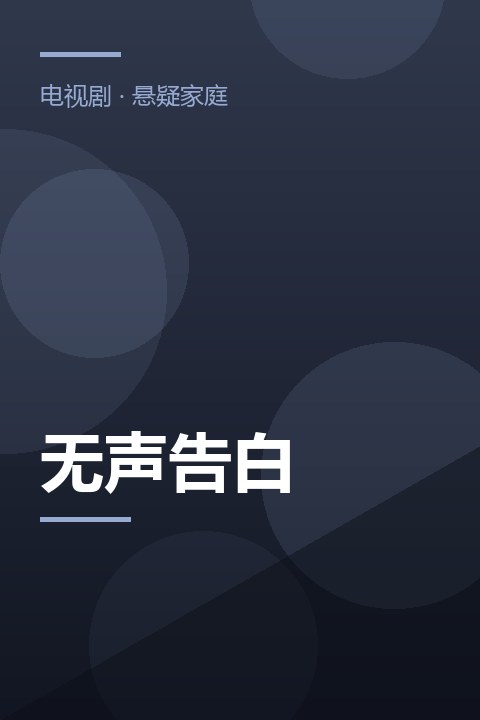
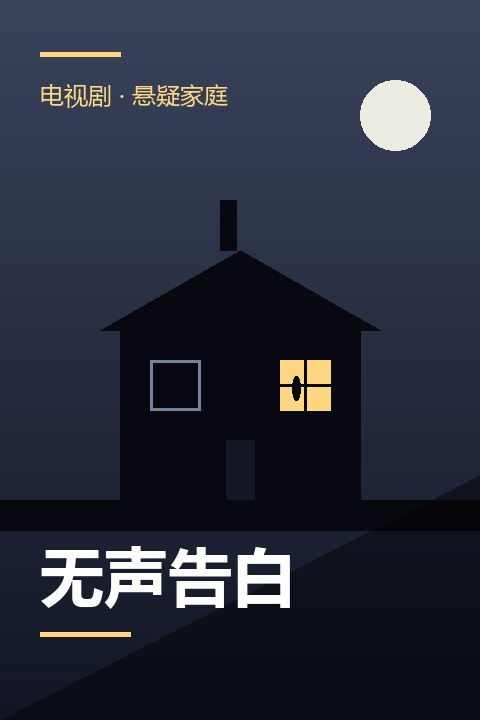
海报改为贴合影视主题的扁平插画：每部作品绘制专属场景（潜艇/宫殿/舞台/山峦/星空/猫町等）

Changed region(s): [[0.0, 0.275, 1.0, 0.8861], [0.0625, 0.0611, 0.5, 0.1528], [0.75, 0.0917, 0.9062, 0.2139]]

diff --git a/gen_posters.py b/gen_posters.py
@@ -1,11 +1,10 @@
 # -*- coding: utf-8 -*-
-"""本地生成 14 张 2:3 竖版海报（渐变 + 几何装饰 + 标题）"""
+"""按影视内容主题生成 14 张 2:3 竖版海报（扁平插画风：渐变底 + 主题剪影场景 + 标题）"""
 from PIL import Image, ImageDraw, ImageFont
-import os, math, random
+import os, random, math
 
-W, H = 480, 720  # 2:3
+W, H = 480, 720
 os.makedirs('posters', exist_ok=True)
-
 FONT = 'C:/Windows/Fonts/msyh.ttc'
 FONT_B = 'C:/Windows/Fonts/msyhbd.ttc'
 
@@ -21,12 +20,6 @@ def vgrad(c1, c2):
             px[x, y] = c
     return img
 
-def soft_circle(draw, cx, cy, r, color, alpha):
-    overlay = Image.new('RGBA', (W, H), (0, 0, 0, 0))
-    d = ImageDraw.Draw(overlay)
-    d.ellipse([cx - r, cy - r, cx + r, cy + r], fill=color + (alpha,))
-    return overlay
-
 def wrap(text, font, max_w, draw):
     lines, cur = [], ''
     for ch in text:
@@ -37,57 +30,305 @@ def wrap(text, font, max_w, draw):
     if cur: lines.append(cur)
     return lines
 
-# (文件名, 标题, 类型名, 主色A, 主色B, 强调色)
-ITEMS = [
-    ('01_chang_an', '长安霓裳录', '电视剧 · 古装悬疑', (122, 44, 58), (43, 24, 48), (232, 180, 120)),
-    ('02_shen_hai', '深海回响', '院线电影 · 科幻惊悚', (8, 32, 64), (2, 8, 24), (64, 180, 220)),
-    ('03_sheng_lang', '声浪 2026', '综艺 · 音乐竞演', (88, 40, 140), (30, 14, 60), (240, 120, 200)),
-    ('04_wu_shan', '雾山行', '动漫 · 国风热血', (60, 80, 96), (20, 28, 36), (220, 90, 70)),
-    ('05_ni_guang', '逆光行者', '院线电影 · 现实题材', (30, 50, 80), (10, 18, 32), (255, 170, 80)),
-    ('06_wu_sheng', '无声告白', '电视剧 · 悬疑家庭', (48, 56, 76), (18, 22, 34), (150, 170, 210)),
-    ('07_man_you', '慢游中国', '综艺 · 慢游人文', (120, 96, 64), (56, 42, 26), (255, 220, 150)),
-    ('08_xing_hai', '星海战记', '动漫 · 科幻星际', (24, 40, 96), (6, 10, 32), (120, 200, 255)),
-    ('09_xia_ri', '夏日晚风', '院线电影 · 青春爱情', (240, 150, 100), (200, 90, 110), (255, 240, 200)),
-    ('10_po_xiao', '破晓行动', '电视剧 · 刑侦涉案', (36, 64, 84), (12, 24, 34), (255, 140, 70)),
-    ('11_nao_li', '脑力竞技场', '综艺 · 科学竞技', (30, 80, 140), (10, 28, 60), (110, 230, 255)),
-    ('12_mao_ding', '猫町奇谭', '动漫 · 治愈奇幻', (250, 180, 140), (230, 130, 140), (255, 250, 235)),
-    ('13_shan_he', '山河笔记', '纪录片 · 自然人文', (70, 110, 90), (24, 48, 40), (230, 220, 160)),
-    ('14_si_lu', '丝路遗珍', '纪录片 · 考古历史', (180, 130, 70), (100, 62, 30), (255, 235, 190)),
-]
+def birds(d, pts, color):
+    for (x, y, s) in pts:
+        d.arc([x - s, y - s, x, y + s], 200, 340, fill=color, width=3)
+        d.arc([x, y - s, x + s, y + s], 200, 340, fill=color, width=3)
 
-for fname, title, genre, c1, c2, accent in ITEMS:
-    random.seed(fname)
-    img = vgrad(c1, c2).convert('RGBA')
+def stars(d, n, seed, ymax, color):
+    random.seed(seed)
+    for _ in range(n):
+        x, y = random.randint(0, W), random.randint(0, ymax)
+        r = random.choice([1, 1, 2])
+        d.ellipse([x - r, y - r, x + r, y + r], fill=color)
 
-    # 几何装饰：柔和圆斑 + 斜切色带
-    for _ in range(5):
-        cx, cy = random.randint(-60, W), random.randint(-60, H)
-        r = random.randint(60, 200)
-        img.alpha_composite(soft_circle(None, cx, cy, r, accent, random.randint(14, 40)))
-    band = Image.new('RGBA', (W, H), (0, 0, 0, 0))
-    bd = ImageDraw.Draw(band)
-    bd.polygon([(0, H), (W, int(H * 0.62)), (W, H)], fill=lerp(c2, (0, 0, 0), 0.35) + (120,))
-    img.alpha_composite(band)
-    # 顶部细装饰线
+def finish(img, title, genre, accent):
+    """统一的文字排版：顶部类型、下部标题"""
+    d = ImageDraw.Draw(img)
+    # 底部暗化条，保证标题可读
+    shade = Image.new('RGBA', (W, H), (0, 0, 0, 0))
+    ImageDraw.Draw(shade).polygon([(0, H), (W, int(H * 0.66)), (W, H)], fill=(0, 0, 0, 110))
+    img.alpha_composite(shade)
     d = ImageDraw.Draw(img)
     d.rectangle([40, 52, 120, 56], fill=accent + (220,))
-
-    # 类型小字
-    f_genre = ImageFont.truetype(FONT, 24)
-    d.text((40, 78), genre, font=f_genre, fill=accent + (235,))
-
-    # 标题（自动换行、纵向居中偏下）
+    d.text((40, 78), genre, font=ImageFont.truetype(FONT, 24), fill=accent + (235,))
     f_title = ImageFont.truetype(FONT_B, 64)
     lines = wrap(title, f_title, W - 80, d)
-    lh = 84
-    ty = int(H * 0.58)
+    ty = int(H * 0.74) - (len(lines) - 1) * 84
     for ln in lines:
         d.text((40, ty), ln, font=f_title, fill=(255, 255, 255, 245))
-        ty += lh
+        ty += 84
+    d.rectangle([40, ty + 16, 130, ty + 20], fill=accent + (200,))
+    return img
 
-    # 底部装饰短线
-    d.rectangle([40, ty + 16, 40 + 90, ty + 20], fill=accent + (200,))
+# ============ 各作品主题场景 ============
 
+def scene_chang_an(d, accent, dark):  # 唐宫：重檐宫殿剪影 + 圆月
+    d.ellipse([300, 90, 420, 210], fill=accent + (255,))           # 月
+    d.ellipse([296, 86, 424, 214], outline=(255, 240, 210, 90), width=4)
+    base = 470
+    d.rectangle([60, base, 420, base + 60], fill=dark)             # 主殿身
+    d.polygon([(40, base), (240, base - 90), (440, base)], fill=dark)   # 上檐
+    d.polygon([(90, base - 90), (240, base - 150), (390, base - 90)], fill=dark)  # 重檐
+    d.rectangle([236, base - 170, 244, base - 150], fill=dark)     # 脊
+    for wx in range(90, 400, 44):                                   # 窗棂
+        d.rectangle([wx, base + 16, wx + 22, base + 44], fill=accent + (170,))
+    d.rectangle([0, base + 60, W, H], fill=dark)
+
+def scene_shen_hai(d, accent, dark):  # 深海：潜艇剪影 + 气泡 + 光柱
+    beam = Image.new('RGBA', (W, H), (0, 0, 0, 0))
+    ImageDraw.Draw(beam).polygon([(120, 0), (200, 0), (320, 480), (180, 480)], fill=(120, 220, 255, 36))
+    return beam
+
+def draw_shen_hai(img, accent, dark):
+    img.alpha_composite(scene_shen_hai(None, accent, dark))
+    d = ImageDraw.Draw(img)
+    d.ellipse([120, 330, 360, 410], fill=dark)                      # 艇身
+    d.rectangle([200, 296, 260, 336], fill=dark)                    # 指挥塔
+    d.polygon([(352, 350), (396, 330), (396, 390), (352, 390)], fill=dark)  # 尾舵
+    for wx in range(150, 300, 36):
+        d.ellipse([wx, 358, wx + 16, 374], fill=accent + (200,))    # 舷窗
+    random.seed('bubble')
+    for _ in range(14):                                             # 气泡
+        x, y = random.randint(30, 450), random.randint(80, 320)
+        r = random.randint(3, 10)
+        d.ellipse([x - r, y - r, x + r, y + r], outline=accent + (150,), width=2)
+    for i in range(3):                                              # 声波纹
+        r = 60 + i * 46
+        d.arc([240 - r, 470 - r, 240 + r, 470 + r], 300, 240, fill=accent + (120 - i * 30,), width=3)
+    return img
+
+def scene_sheng_lang(img, accent, dark):  # 音乐舞台：射灯 + 麦克风 + 音浪
+    d = ImageDraw.Draw(img)
+    for sx in (90, 240, 390):                                       # 顶部射灯光束
+        beam = Image.new('RGBA', (W, H), (0, 0, 0, 0))
+        ImageDraw.Draw(beam).polygon([(sx - 14, 0), (sx + 14, 0), (sx + 90, 430), (sx - 90, 430)],
+                                     fill=accent + (30,))
+        img.alpha_composite(beam)
+    d = ImageDraw.Draw(img)
+    d.ellipse([196, 300, 284, 388], fill=dark)                      # 麦克风头
+    for i in range(3):
+        d.arc([196 - 8 + i * 4, 300 - 8 + i * 4, 284 + 8 - i * 4, 388 + 8 - i * 4], 0, 360, fill=accent + (140,), width=2)
+    d.polygon([(226, 388), (254, 388), (246, 470), (234, 470)], fill=dark)  # 手柄
+    d.rectangle([150, 470, 330, 482], fill=dark)                    # 台
+    random.seed('wave')
+    for i, x in enumerate(range(60, 440, 20)):                      # 音浪条
+        h = random.randint(14, 60)
+        d.rectangle([x, 560 - h, x + 8, 560 + h], fill=accent + (170,))
+    return img
+
+def scene_wu_shan(img, accent, dark):  # 雾山：层叠山峦 + 红日 + 雾带
+    d = ImageDraw.Draw(img)
+    d.ellipse([320, 120, 420, 220], fill=(230, 84, 60, 255))        # 红日
+    def ridge(pts, color):
+        d.polygon(pts + [(W, H), (0, H)], fill=color)
+    ridge([(0, 380), (120, 300), (240, 380), (360, 290), (W, 380)], lerp(dark, (255, 255, 255), 0.08) + (210,))
+    ridge([(0, 470), (160, 380), (300, 470), (420, 390), (W, 460)], dark + (235,))
+    for my in (350, 440):                                           # 雾带
+        fog = Image.new('RGBA', (W, H), (0, 0, 0, 0))
+        ImageDraw.Draw(fog).ellipse([-80, my, W + 80, my + 56], fill=(235, 235, 230, 70))
+        img.alpha_composite(fog)
+    d = ImageDraw.Draw(img)
+    birds(d, [(140, 180, 16), (190, 210, 12)], (60, 60, 60, 200))
+    return img
+
+def scene_ni_guang(img, accent, dark):  # 城市雨夜：楼群 + 雨丝 + 骑手
+    d = ImageDraw.Draw(img)
+    random.seed('city')
+    x = 0
+    while x < W:                                                    # 楼群剪影
+        bw, bh = random.randint(50, 90), random.randint(150, 300)
+        d.rectangle([x, 470 - bh, x + bw, 470], fill=dark)
+        for wy in range(470 - bh + 14, 460, 26):                    # 亮窗
+            for wx in range(x + 8, x + bw - 10, 18):
+                if random.random() < 0.35:
+                    d.rectangle([wx, wy, wx + 8, wy + 10], fill=accent + (150,))
+        x += bw + random.randint(6, 18)
+    for _ in range(70):                                             # 雨丝
+        rx, ry = random.randint(0, W), random.randint(0, 520)
+        d.line([(rx, ry), (rx - 6, ry + 18)], fill=(200, 220, 255, 90), width=1)
+    d.ellipse([70, 130, 150, 210], fill=accent + (200,))            # 逆光光晕
+    d.ellipse([200, 420, 250, 470], outline=(255, 200, 120, 255), width=6)   # 车轮
+    d.ellipse([300, 420, 350, 470], outline=(255, 200, 120, 255), width=6)
+    d.line([(250, 445), (290, 400), (325, 445)], fill=(255, 200, 120, 255), width=6)  # 车架
+    d.ellipse([276, 356, 304, 384], fill=(255, 200, 120, 255))      # 骑手头
+    d.line([(290, 384), (290, 404)], fill=(255, 200, 120, 255), width=8)
+    d.rectangle([0, 470, W, 500], fill=dark)                        # 路面
+    return img
+
+def scene_wu_sheng(img, accent, dark):  # 悬疑家庭：房子 + 一扇亮窗 + 月
+    d = ImageDraw.Draw(img)
+    d.ellipse([360, 80, 430, 150], fill=(235, 235, 225, 230))       # 月
+    d.rectangle([120, 330, 360, 500], fill=dark)                    # 房身
+    d.polygon([(100, 330), (240, 250), (380, 330)], fill=dark)      # 屋顶
+    d.rectangle([220, 200, 236, 250], fill=dark)                    # 烟囱
+    d.rectangle([150, 360, 200, 410], outline=(120, 130, 150, 255), width=3)   # 暗窗
+    d.rectangle([280, 360, 330, 410], fill=accent + (255,))         # 亮窗
+    d.line([(305, 360), (305, 410)], fill=dark + (255,), width=3)
+    d.line([(280, 385), (330, 385)], fill=dark + (255,), width=3)
+    d.ellipse([292, 376, 300, 400], fill=dark + (255,))             # 窗内人影
+    d.rectangle([226, 440, 254, 500], fill=(20, 24, 34, 255))       # 门
+    d.rectangle([0, 500, W, 530], fill=dark)
+    return img
+
+def scene_man_you(img, accent, dark):  # 古镇：屋檐 + 灯笼 + 石板路
+    d = ImageDraw.Draw(img)
+    d.polygon([(40, 300), (200, 220), (360, 300)], fill=dark)       # 左屋檐
+    d.rectangle([70, 300, 330, 470], fill=lerp(dark, (255, 255, 255), 0.06))
+    d.polygon([(180, 380), (360, 300), (W, 380)], fill=dark)        # 右屋檐
+    d.rectangle([220, 380, W, 470], fill=lerp(dark, (255, 255, 255), 0.03))
+    for lx in (150, 250, 400):                                      # 灯笼
+        d.line([(lx, 300), (lx, 316)], fill=(40, 30, 20, 255), width=2)
+        d.ellipse([lx - 14, 316, lx + 14, 348], fill=(235, 90, 60, 255))
+        d.rectangle([lx - 6, 348, lx + 6, 354], fill=(255, 210, 120, 255))
+    for i in range(4):                                              # 石板路
+        d.line([(60 + i * 10, 470 + i * 30), (W - 60 - i * 10, 470 + i * 30)], fill=(255, 240, 210, 90), width=2)
+    birds(d, [(120, 130, 14), (170, 160, 10)], (90, 70, 50, 200))
+    return img
+
+def scene_xing_hai(img, accent, dark):  # 星际：星空 + 行星 + 飞船
+    d = ImageDraw.Draw(img)
+    stars(d, 120, 'star', 560, (255, 255, 255, 220))
+    d.ellipse([60, 120, 200, 260], fill=(120, 90, 200, 255))        # 行星
+    d.arc([30, 160, 230, 220], 0, 360, fill=accent + (200,), width=5)  # 光环
+    d.ellipse([300, 320, 380, 400], fill=(70, 140, 200, 255))       # 小行星
+    ship = [(100, 470), (220, 440), (340, 470), (220, 486)]         # 飞船剪影
+    d.polygon(ship, fill=dark)
+    d.ellipse([196, 440, 244, 470], fill=dark)
+    d.ellipse([206, 446, 234, 464], fill=accent + (230,))
+    d.polygon([(340, 470), (392, 458), (392, 482)], fill=(255, 160, 60, 200))  # 尾焰
+    return img
+
+def scene_xia_ri(img, accent, dark):  # 夏日海边：落日 + 海平线 + 海鸥
+    d = ImageDraw.Draw(img)
+    d.ellipse([170, 210, 310, 350], fill=(255, 236, 180, 255))      # 落日
+    d.rectangle([0, 380, W, 560], fill=(235, 120, 100, 255))        # 海面
+    for i in range(6):                                              # 波光
+        y = 400 + i * 24
+        d.line([(60 + i * 14, y), (200 + i * 10, y)], fill=(255, 230, 190, 150), width=3)
+        d.line([(300 - i * 8, y + 8), (420 - i * 10, y + 8)], fill=(255, 230, 190, 120), width=3)
+    d.rectangle([0, 560, W, H], fill=(250, 214, 165, 255))          # 沙滩
+    d.polygon([(0, 560), (140, 560), (60, H), (0, H)], fill=(245, 200, 150, 255))
+    birds(d, [(320, 150, 16), (370, 120, 12), (260, 110, 10)], (120, 70, 60, 220))
+    d.ellipse([196, 500, 212, 534], fill=(90, 50, 60, 255))         # 两个人影
+    d.rectangle([192, 534, 216, 560], fill=(90, 50, 60, 255))
+    d.ellipse([228, 506, 242, 534], fill=(90, 50, 60, 255))
+    d.rectangle([224, 534, 246, 560], fill=(90, 50, 60, 255))
+    return img
+
+def scene_po_xiao(img, accent, dark):  # 破晓边境：岗亭 + 铁丝网 + 晨光
+    d = ImageDraw.Draw(img)
+    for gy in range(120, 300, 12):                                  # 晨光线
+        d.line([(0, gy), (W, gy - 40)], fill=(255, 180, 100, 26), width=2)
+    d.ellipse([330, 150, 420, 240], fill=(255, 170, 90, 255))       # 朝阳
+    d.rectangle([90, 340, 190, 470], fill=dark)                     # 岗亭
+    d.polygon([(70, 340), (140, 300), (210, 340)], fill=dark)
+    d.rectangle([110, 370, 170, 410], fill=accent + (160,))
+    d.rectangle([136, 470, 144, 500], fill=dark)
+    for px in range(230, W, 46):                                    # 铁丝网柱
+        d.rectangle([px, 400, px + 6, 500], fill=dark)
+    for wy in (420, 460):
+        d.line([(230, wy), (W, wy)], fill=dark + (255,), width=3)
+        for bx in range(238, W, 24):
+            d.line([(bx, wy - 6), (bx + 8, wy + 6)], fill=dark + (255,), width=2)
+    d.rectangle([0, 500, W, 530], fill=dark)
+    birds(d, [(140, 140, 12), (190, 110, 9)], (60, 50, 40, 200))
+    return img
+
+def scene_nao_li(img, accent, dark):  # 脑力：大脑 vs 芯片
+    d = ImageDraw.Draw(img)
+    d.ellipse([60, 220, 230, 390], fill=lerp(accent, (255, 255, 255), 0.15) + (255,))   # 脑
+    d.ellipse([120, 180, 260, 330], fill=lerp(accent, (255, 255, 255), 0.15) + (255,))
+    random.seed('brain')
+    for _ in range(8):
+        bx, by = random.randint(90, 230), random.randint(210, 340)
+        d.arc([bx - 20, by - 14, bx + 20, by + 14], 0, 300, fill=dark + (200,), width=3)
+    d.rectangle([300, 230, 420, 350], fill=dark)                    # 芯片
+    d.rectangle([318, 248, 402, 332], outline=accent + (255,), width=3)
+    for i in range(4):
+        d.line([(300 + i * 34, 214), (300 + i * 34, 230)], fill=accent + (255,), width=4)
+        d.line([(300 + i * 34, 350), (300 + i * 34, 366)], fill=accent + (255,), width=4)
+    d.line([(265, 300), (300, 290)], fill=accent + (255,), width=4)  # 对决闪电
+    d.polygon([(276, 280), (292, 296), (272, 296), (290, 316), (266, 298), (282, 298)], fill=(255, 220, 90, 255))
+    for i, x in enumerate(range(80, 420, 26)):                      # 数据流
+        h = 12 + (i * 7) % 34
+        d.rectangle([x, 500 - h, x + 10, 500], fill=accent + (140,))
+    return img
+
+def scene_mao_ding(img, accent, dark):  # 猫町：屋顶 + 月亮 + 猫剪影
+    d = ImageDraw.Draw(img)
+    d.ellipse([330, 80, 430, 180], fill=(255, 246, 220, 255))       # 满月
+    d.polygon([(0, 380), (120, 300), (240, 380)], fill=dark)        # 屋顶
+    d.polygon([(200, 400), (340, 316), (W, 400)], fill=lerp(dark, (255, 255, 255), 0.05))
+    d.rectangle([300, 250, 318, 336], fill=dark)                    # 烟囱
+    def cat(cx, cy, s, flip=1):
+        d.ellipse([cx - s, cy - s, cx + s, cy + int(s * 1.2)], fill=dark)              # 身
+        d.ellipse([cx - int(s * .62), cy - s - int(s * .7), cx + int(s * .62), cy - int(s * .2)], fill=dark)  # 头
+        d.polygon([(cx - int(s * .5), cy - s - int(s * .55)), (cx - int(s * .12), cy - s - int(s * .5)), (cx - int(s * .42), cy - s - int(s * .95))], fill=dark)  # 耳
+        d.polygon([(cx + int(s * .5), cy - s - int(s * .55)), (cx + int(s * .12), cy - s - int(s * .5)), (cx + int(s * .42), cy - s - int(s * .95))], fill=dark)
+        d.arc([cx + flip * s - 4, cy - s, cx + flip * s + 44, cy + s], 100 if flip > 0 else -160, 260 if flip > 0 else 80, fill=dark + (255,), width=5)  # 尾
+    cat(130, 392, 26)
+    cat(370, 412, 20, flip=-1)
+    stars(d, 40, 'town', 260, (255, 250, 235, 200))
+    return img
+
+def scene_shan_he(img, accent, dark):  # 山河：峡谷群山 + 河流 + 飞鸟
+    d = ImageDraw.Draw(img)
+    d.polygon([(0, 320), (140, 200), (280, 320), (280, H), (0, H)], fill=lerp(dark, (255, 255, 255), 0.07))
+    d.polygon([(200, 340), (360, 180), (W, 340), (W, H), (200, H)], fill=dark)
+    d.polygon([(348, 196), (360, 180), (376, 200)], fill=(240, 240, 235, 230))  # 雪顶
+    river = [(150, 420), (240, 460), (180, 520), (280, 580), (220, 660), (300, H), (140, H), (110, 640), (170, 560), (90, 500), (140, 450)]
+    d.polygon(river, fill=(160, 200, 190, 235))                     # 河流
+    birds(d, [(300, 120, 14), (350, 150, 10), (250, 90, 9)], (40, 60, 50, 220))
+    return img
+
+def scene_si_lu(img, accent, dark):  # 丝路：沙丘 + 驼队 + 陶罐
+    d = ImageDraw.Draw(img)
+    d.ellipse([320, 90, 440, 210], fill=(255, 220, 150, 255))       # 大漠日
+    d.polygon([(0, 380), (200, 300), (W, 400), (W, H), (0, H)], fill=(230, 190, 130, 255))
+    d.polygon([(0, 460), (260, 380), (W, 480), (W, H), (0, H)], fill=(215, 168, 105, 255))
+    def camel(cx, cy, s):
+        d.ellipse([cx, cy, cx + s * 2, cy + s], fill=dark)          # 身
+        d.ellipse([cx + int(s * .7), cy - int(s * .55), cx + int(s * 1.5), cy + int(s * .35)], fill=dark)  # 驼峰
+        d.line([(cx + s * 2, cy + 4), (cx + int(s * 2.6), cy - s)], fill=dark + (255,), width=int(s * .3))  # 颈
+        d.ellipse([cx + int(s * 2.45), cy - s - 6, cx + int(s * 2.95), cy - int(s * .4)], fill=dark)  # 头
+        for lx in (cx + 4, cx + int(s * .8), cx + int(s * 1.3), cx + s * 2 - 6):
+            d.line([(lx, cy + s - 2), (lx, cy + s + int(s * .9))], fill=dark + (255,), width=4)  # 腿
+    camel(90, 380, 22)
+    camel(210, 400, 18)
+    d.line([(140, 392), (210, 408)], fill=dark + (255,), width=2)   # 缰绳
+    d.ellipse([360, 500, 420, 560], fill=(120, 70, 40, 255))        # 陶罐
+    d.rectangle([380, 486, 400, 504], fill=(120, 70, 40, 255))
+    d.arc([360, 516, 420, 544], 0, 360, fill=accent + (255,), width=3)
+    return img
+
+# ============ 配置：文件名 / 标题 / 类型 / 渐变 / 强调色 / 场景函数 ============
+ITEMS = [
+    ('01_chang_an', '长安霓裳录', '电视剧 · 古装悬疑', (168, 84, 84), (70, 30, 44), (250, 208, 137), scene_chang_an, 'poly'),
+    ('02_shen_hai', '深海回响', '院线电影 · 科幻惊悚', (14, 52, 96), (3, 10, 28), (96, 214, 255), draw_shen_hai, 'img'),
+    ('03_sheng_lang', '声浪 2026', '综艺 · 音乐竞演', (110, 52, 168), (32, 14, 64), (245, 130, 205), scene_sheng_lang, 'img'),
+    ('04_wu_shan', '雾山行', '动漫 · 国风热血', (96, 112, 122), (28, 36, 44), (228, 96, 74), scene_wu_shan, 'img'),
+    ('05_ni_guang', '逆光行者', '院线电影 · 现实题材', (36, 58, 92), (10, 16, 30), (255, 178, 92), scene_ni_guang, 'img'),
+    ('06_wu_sheng', '无声告白', '电视剧 · 悬疑家庭', (58, 68, 92), (18, 22, 36), (255, 214, 130), scene_wu_sheng, 'img'),
+    ('07_man_you', '慢游中国', '综艺 · 慢游人文', (196, 152, 96), (96, 70, 40), (255, 222, 150), scene_man_you, 'img'),
+    ('08_xing_hai', '星海战记', '动漫 · 科幻星际', (28, 46, 108), (6, 10, 34), (130, 205, 255), scene_xing_hai, 'img'),
+    ('09_xia_ri', '夏日晚风', '院线电影 · 青春爱情', (250, 168, 108), (228, 110, 110), (255, 246, 210), scene_xia_ri, 'img'),
+    ('10_po_xiao', '破晓行动', '电视剧 · 刑侦涉案', (52, 88, 110), (14, 26, 36), (255, 150, 76), scene_po_xiao, 'img'),
+    ('11_nao_li', '脑力竞技场', '综艺 · 科学竞技', (36, 92, 156), (10, 28, 62), (116, 232, 255), scene_nao_li, 'img'),
+    ('12_mao_ding', '猫町奇谭', '动漫 · 治愈奇幻', (246, 168, 128), (196, 106, 116), (90, 56, 74), scene_mao_ding, 'img'),
+    ('13_shan_he', '山河笔记', '纪录片 · 自然人文', (92, 138, 112), (28, 54, 44), (238, 226, 160), scene_shan_he, 'img'),
+    ('14_si_lu', '丝路遗珍', '纪录片 · 考古历史', (222, 166, 92), (140, 92, 44), (255, 238, 190), scene_si_lu, 'img'),
+]
+
+for fname, title, genre, c1, c2, accent, fn, mode in ITEMS:
+    img = vgrad(c1, c2).convert('RGBA')
+    dark = lerp(c2, (0, 0, 0), 0.55)
+    if mode == 'poly':
+        d = ImageDraw.Draw(img)
+        fn(d, accent, dark)
+    else:
+        img = fn(img, accent, dark)
+    img = finish(img, title, genre, accent)
     img.convert('RGB').save(f'posters/{fname}.jpg', quality=88)
     print(f'{fname}.jpg done')
 
